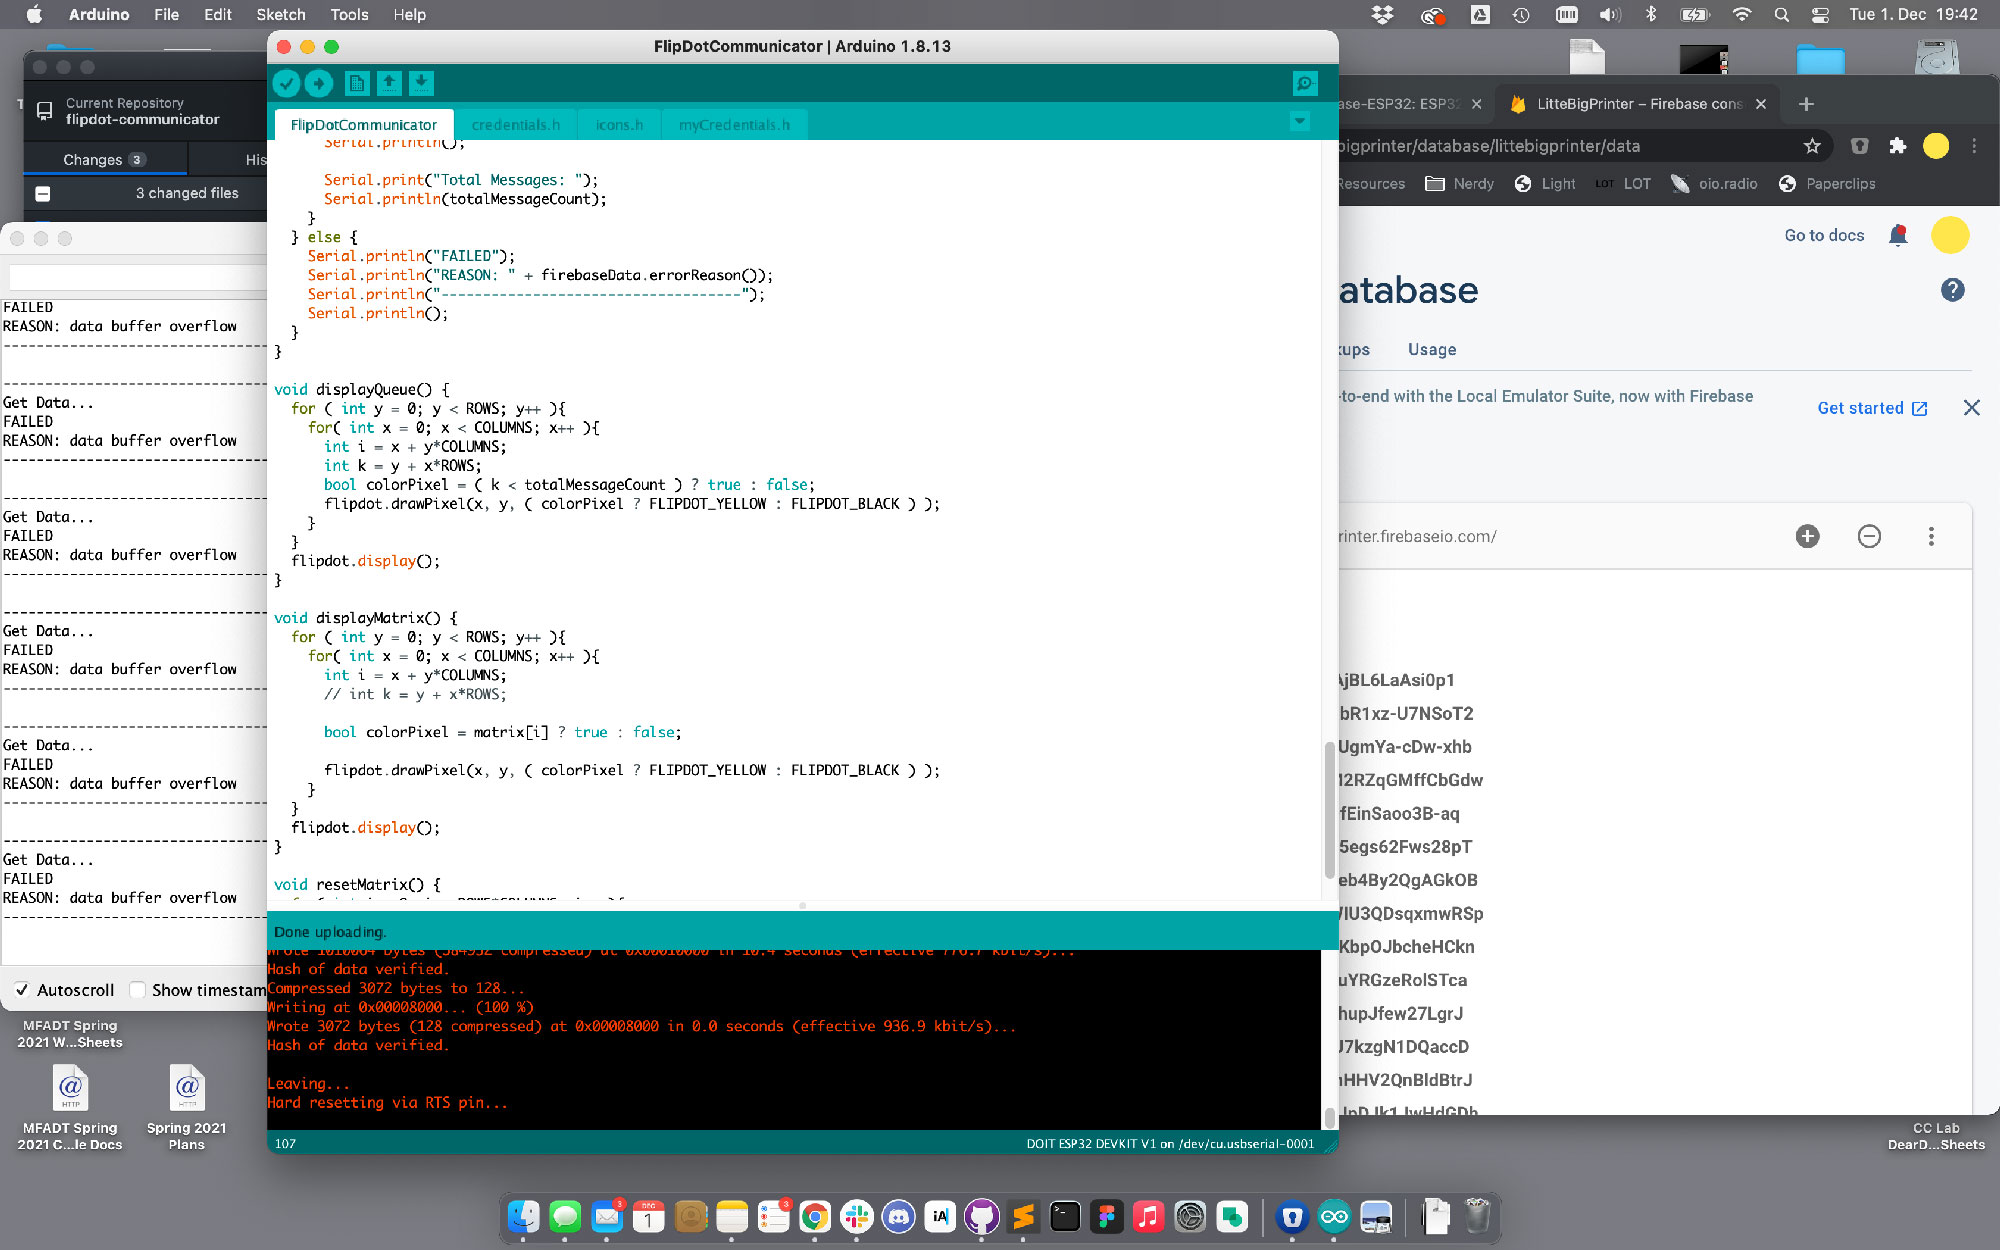
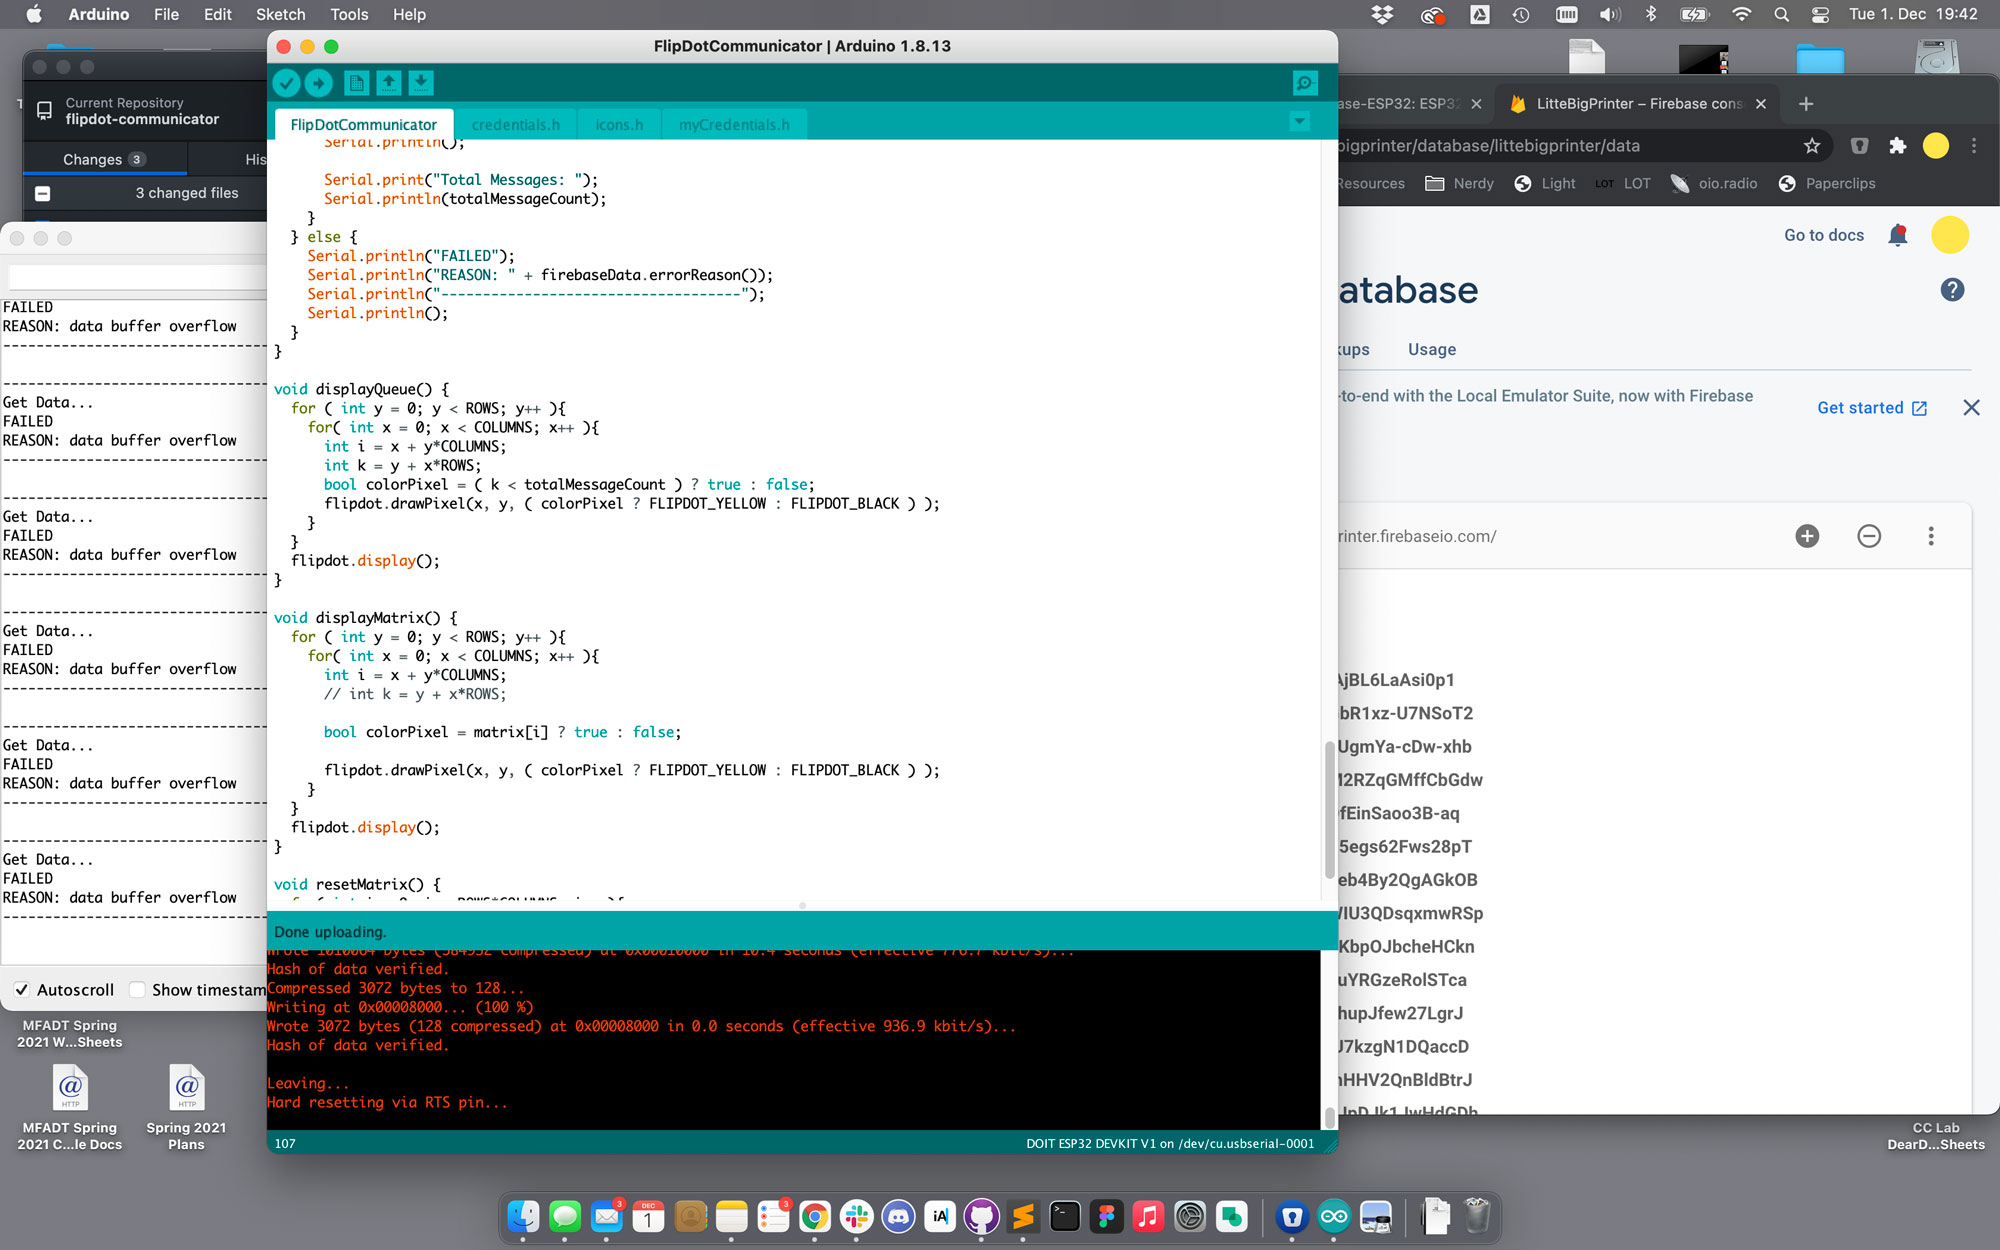
Improve qualitiy of screenshots

diff --git a/_posts/2020-12-02-Hardware-Code.md b/_posts/2020-12-02-Hardware-Code.md
@@ -10,6 +10,8 @@ When running the program, I realized that the flip dots get extremely hot when t
 
 I then started to refactor the database. It now is able to send arrays as well, allowing to process the content entirely on the website. The new [*MatrixDraw* component](https://github.com/olivierbrcknr/flipdot-communicator/tree/master/website/components/MatrixDraw) enables visitors to send draw and send own images in this very limited resolution.
 
+Find the code [→ here](https://github.com/olivierbrcknr/flipdot-communicator/blob/master/hardware/FlipDotCommunicator/FlipDotCommunicator.ino)
+
 {% include lazyload.html image_src="ArduinoIDEScreenshot.jpg" image_alt="Programming with the Arduino IDE" %}
 
 #### Next Issues
@@ -17,3 +19,10 @@ I then started to refactor the database. It now is able to send arrays as well, 
 The next big issue seems to be the `buffer`. I can only read so many data entries per call, which will eventually be an issue when getting to sending more complex matrixes.
 
 Especially, when sending animations this will be a problem. I don't know if I am able to figure this out in the time given by the deadline.
+
+#### Additional
+
+I stumbled upon [this repository](https://github.com/ndsh/flipdots) by [Julian Hespenheide](http://www.julian-h.de/), which is explaining flip dots quite thoroughly, in case you want to know more! (I found it too late, unfortunately…) 
+
+Currently the studio Julian Hespenheide works at, is having an exhibition displaying a flip dot display. Read more about it at the studio's website: [Studio TheGreenEyl](http://www.thegreeneyl.com/living-city).
+

diff --git a/_posts/2020-11-09-project-proposal.md b/_posts/2020-11-09-project-proposal.md
@@ -47,6 +47,9 @@ Here is a list of projects that I think are interesting, that are touching the s
 {% include lazyload.html image_src="https://media.idownloadblog.com/wp-content/uploads/2016/10/watchos3-digital-touch-heartbeat.jpg" image_alt="Digital Touch — Heartbeat" %}
 **[Digital Touch](https://support.apple.com/en-gb/guide/watch/apdebd0bb96c/watchos) by *Apple*: The app lets people interchange small sketches and emotions. Most interestingly it is also capable of sharing the heartbeat of a person, bringing a new level of intimacy.**
 
+{% include lazyload.html image_src="http://jenswunderling.com/works/default-to-public/gallery/1_tweetleak_bar_2.JPG" image_alt="default to public" %}
+**[default to public](http://jenswunderling.com/works/default-to-public/) by *Jens Wunderling*: A project in which tweets within a specific area get printed near that area in a public space. It is a nice way of bringing the digital back to the physical.**
+
 #### Questions & Approach
 
 I wonder, which ways of communication inherit the feelings I want to cover. Is it about facial expressions? Is it about the anticipation of someone who is ringing the doorbell and you wait until this person arrived in your apartment? Is it about the ‘slight discomfort’ that sometimes is created in a room when a specific topic is talked about?
